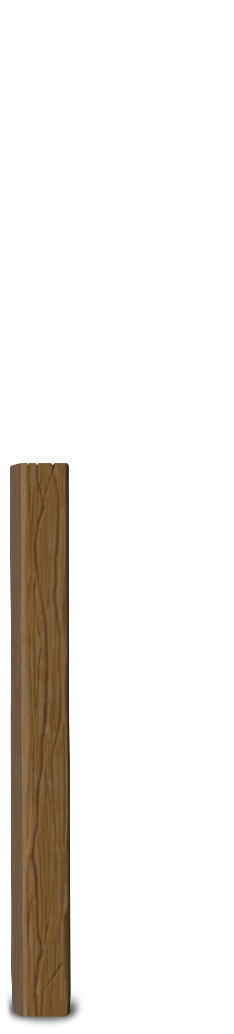
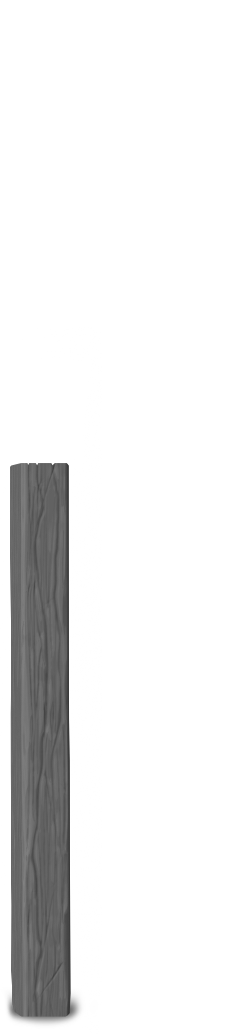
Made the post colorable as well

Changed region(s): [[0.0299, 0.4333, 0.2991, 0.9903]]

diff --git a/BondageClub/Assets/Female3DCG/Female3DCG.js b/BondageClub/Assets/Female3DCG/Female3DCG.js
@@ -4412,7 +4412,7 @@ var AssetFemale3DCG = [
 				]
 			},
 			{
-				Name: "PonyGag", Fetish: ["Leather", "Pony", "Pet"], Value: 150, Difficulty: 5, Time: 8, Random: false, AllowLock: true, BuyGroup: "PonyGag", Prerequisite: "GagUnique", DefaultColor: ["Default", "Default", "#383838", "Default", "#B24031", "#EAEAEA", "Default", "#FF95DB", "#383838", "Default", "#383838", "#956B1C"], Extended: true, AlwaysExtend: true, Bonus: "KidnapBruteForce", Top: -57, Left: 133,
+				Name: "PonyGag", Fetish: ["Leather", "Pony", "Pet"], Value: 150, Difficulty: 5, Time: 8, Random: false, AllowLock: true, BuyGroup: "PonyGag", Prerequisite: "GagUnique", DefaultColor: ["Default", "Default", "#383838", "Default", "#B24031", "#EAEAEA", "Default", "#FF95DB", "#383838", "Default", "#383838", "#956B1C", "#AA7053"], Extended: true, AlwaysExtend: true, Bonus: "KidnapBruteForce", Top: -57, Left: 133,
 				Layer: [
 					// Layers: Metal, Straps, Plume, Horn, Panel
 					{ Name: "BaseMetal", HasType: false},
@@ -4465,7 +4465,7 @@ var AssetFemale3DCG = [
 					{ Name: "Reins", HasType: false, AllowModuleTypes: ["r1"], ColorGroup: "Straps" },
 					{ Name: "Rope", HasType: false, AllowModuleTypes: ["r2"] },
 					{ Name: "PostReins", HasType: false, AllowModuleTypes: ["r3"], CopyLayerColor: "Reins" },
-					{ Name: "Post", HasType: false, AllowModuleTypes: ["r3"], AllowColorize: false },
+					{ Name: "Post", HasType: false, AllowModuleTypes: ["r3"] },
 					{ Name: "PostReinsDetail", HasType: false, AllowModuleTypes: ["r3"], CopyLayerColor: "Reins" },
 
 					//Blinders

diff --git a/BondageClub/Assets/Female3DCG/Female3DCGExtended.js b/BondageClub/Assets/Female3DCG/Female3DCGExtended.js
@@ -3744,7 +3744,7 @@ var AssetFemale3DCGExtended = {
 							{}, //r0 - None
 							{ Property: { Effect: ["Leash"] },}, //r1 - Reins
 							{ Property: { Effect: ["Leash"] },}, //r2 - Rope
-							{ Property: { Effect: ["Freeze", "IsChained"], Block: ["ItemAddon", "ItemDevices", "CollarRopeShort", "Post"] },}, //r3 - Pole
+							{ Property: { Effect: ["Freeze", "IsChained", "BlockKneel"], Block: ["ItemAddon", "ItemDevices", "ItemNeckRestraints"]},}, //r3 - Pole
 						],
 					},
 					{
